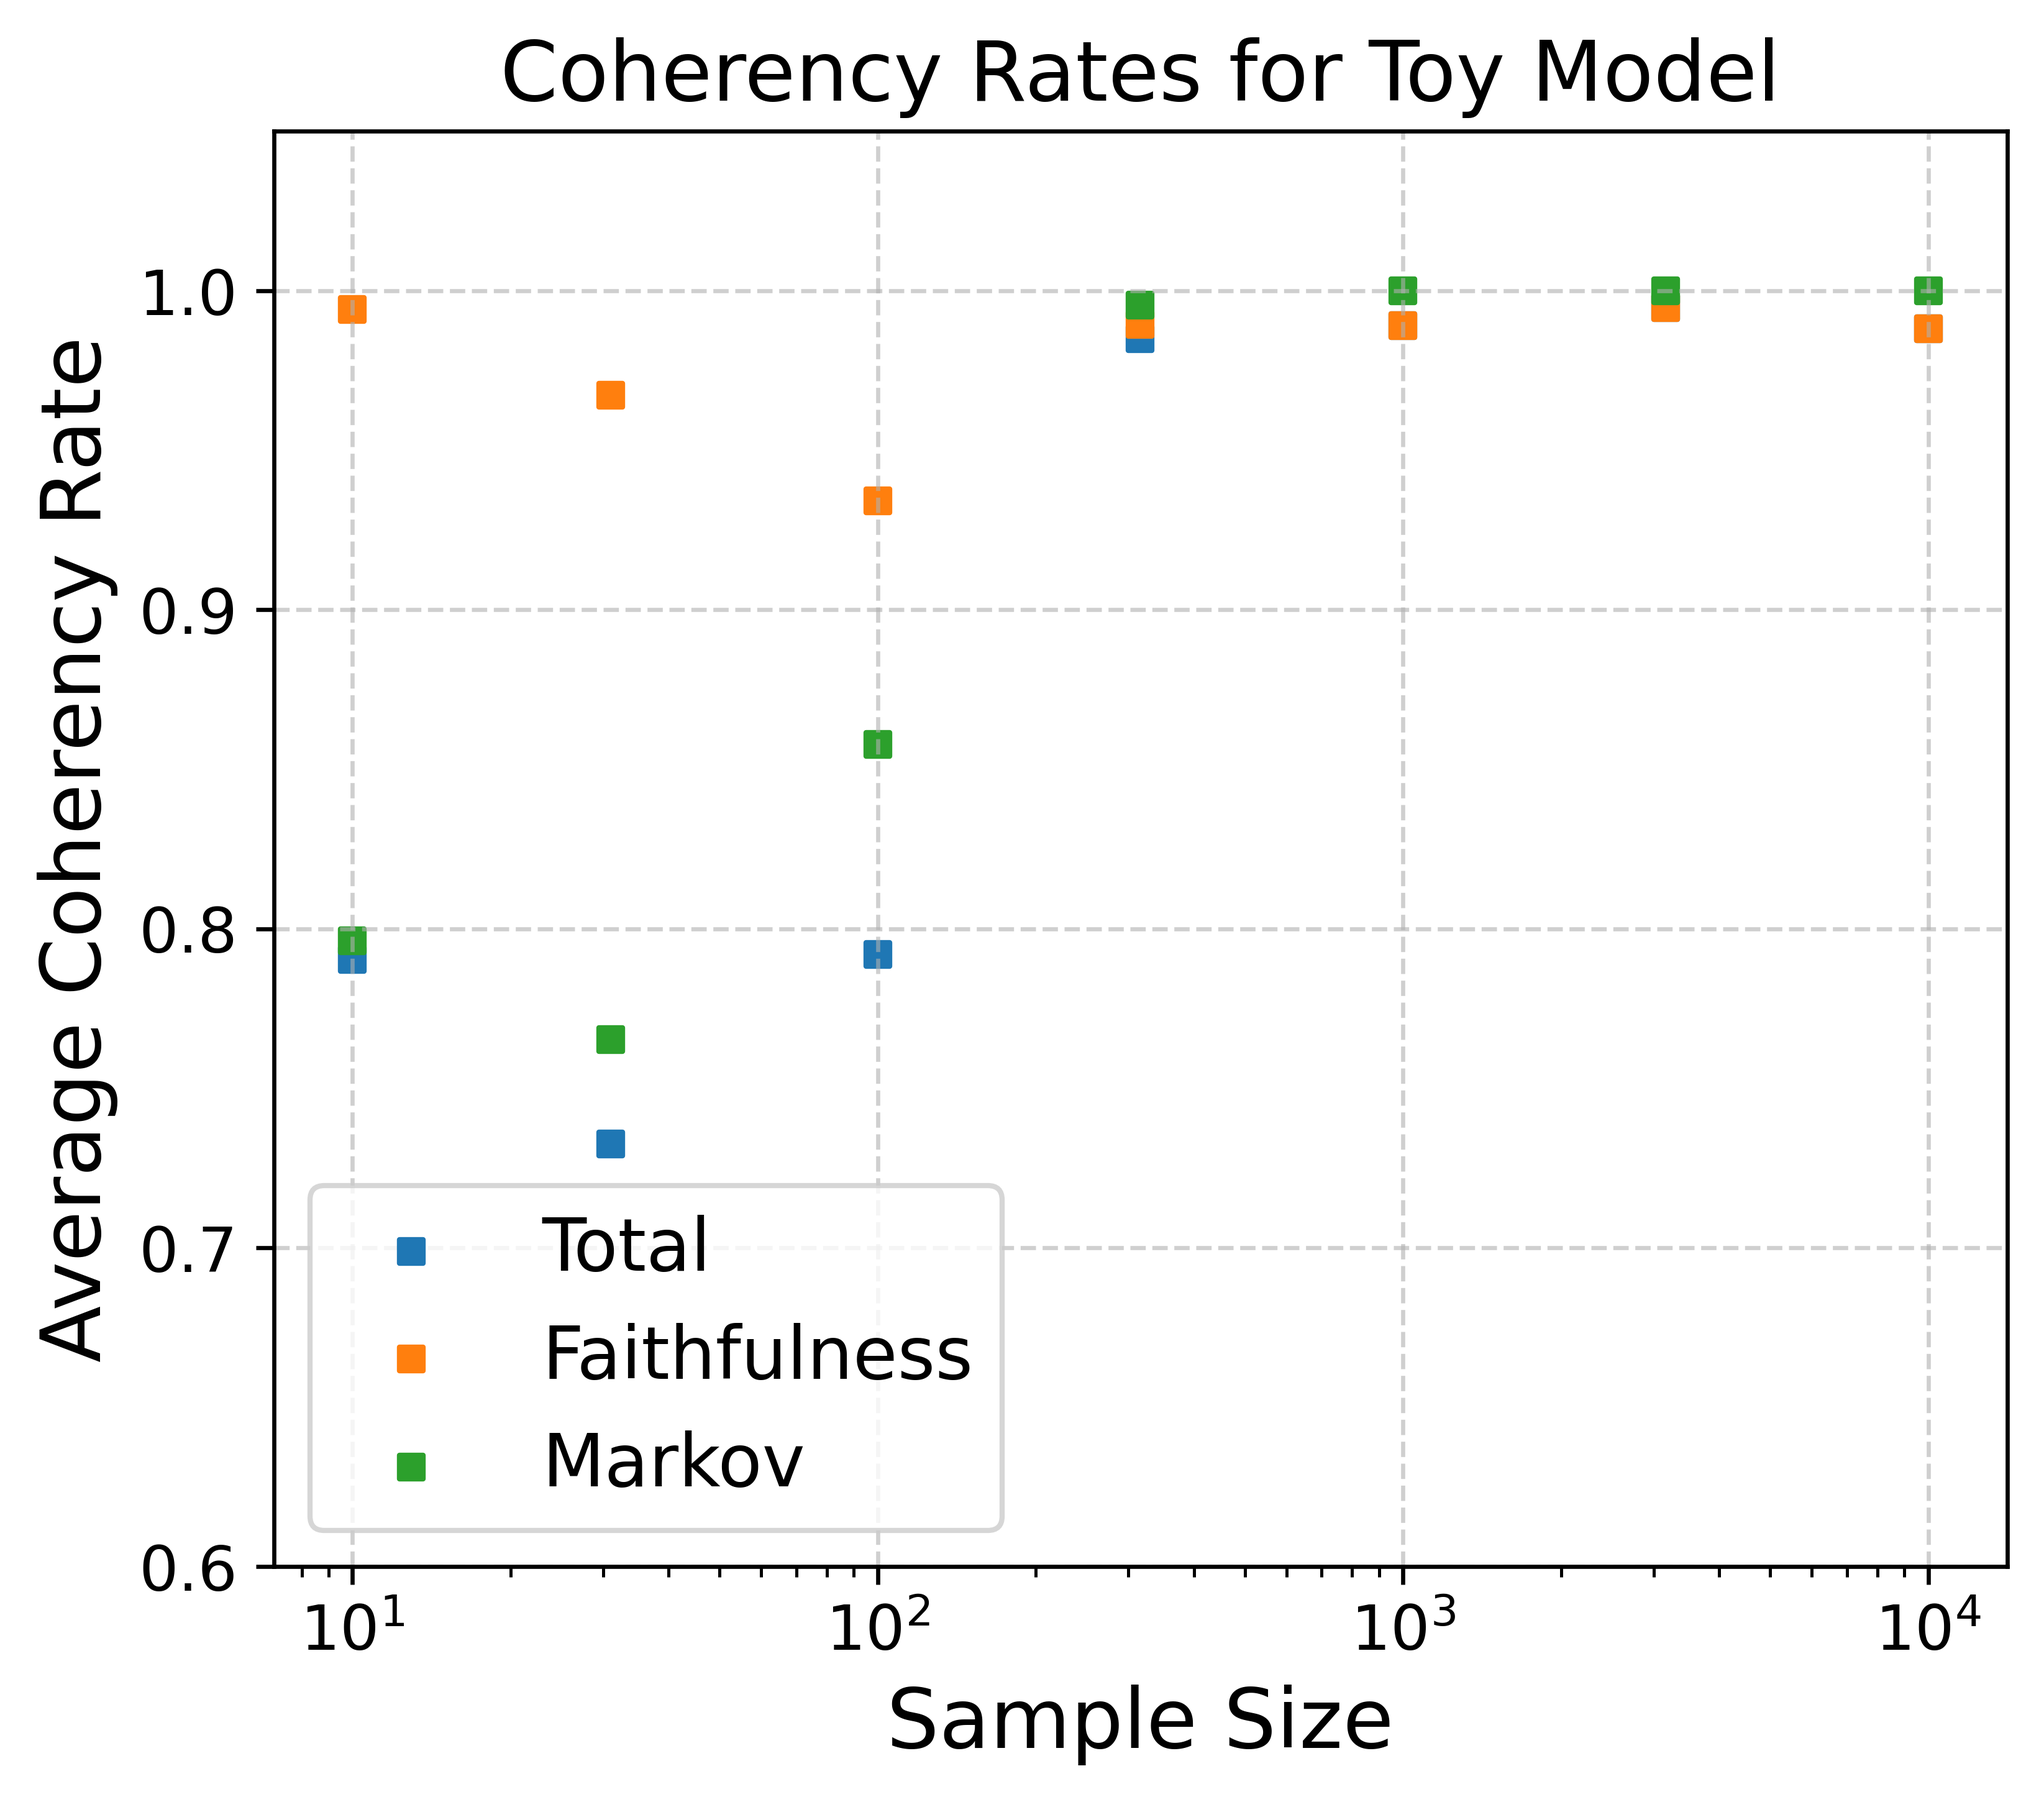
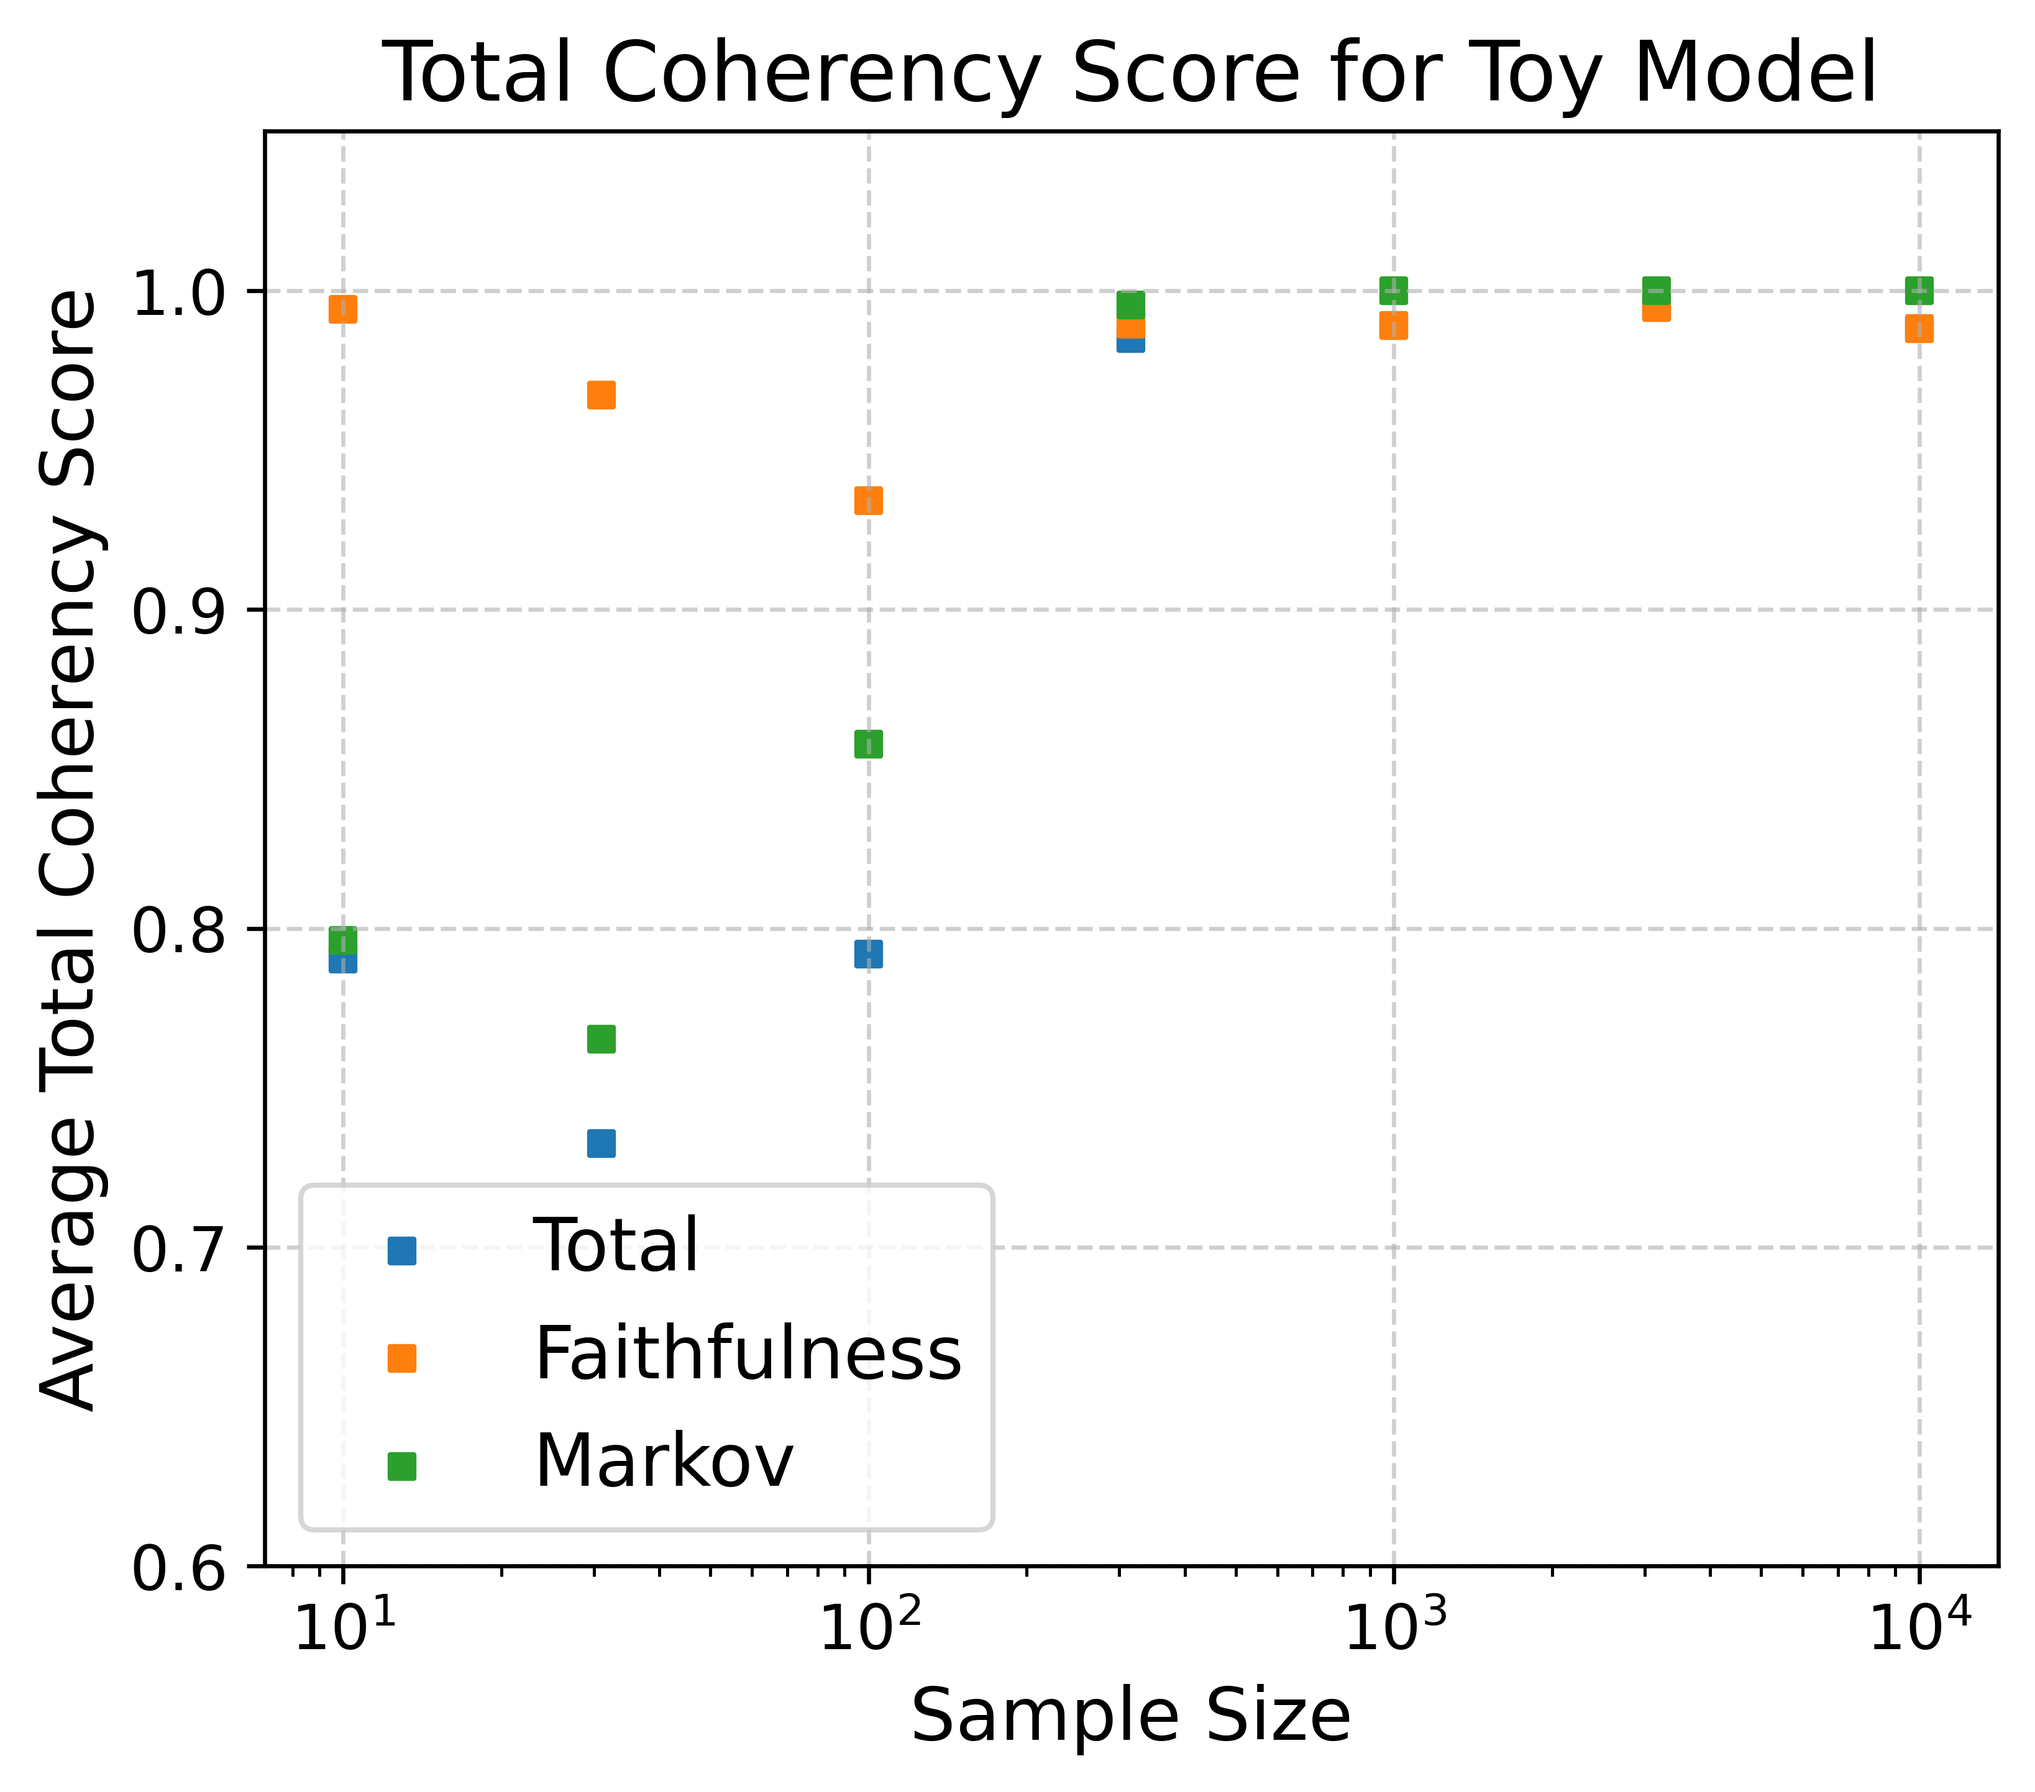
rename custom plot

diff --git a/custom_plots.py b/custom_plots.py
@@ -46,10 +46,10 @@ if __name__ == "__main__":
         plt.scatter(sample_sizes, data["scores"][key][0], s=20, marker="s", label=key)
 
     plt.xscale("log")
-    plt.xlabel("Sample Size", fontsize=16)
-    plt.ylabel("Average Coherency Rate", fontsize=16)
+    plt.xlabel("Sample Size", fontsize=14)
+    plt.ylabel("Average Total Coherency Score", fontsize=14)
     plt.ylim(0.6, 1.05)
-    plt.title("Coherency Rates for Toy Model", fontsize=16)
+    plt.title("Total Coherency Score for Toy Model", fontsize=16)
     plt.legend(fontsize=14)
     plt.grid(True, linestyle="--", alpha=0.6)  # Add a subtle grid
 
